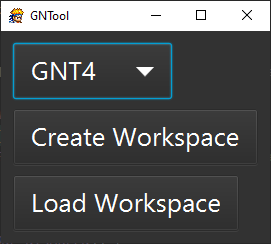
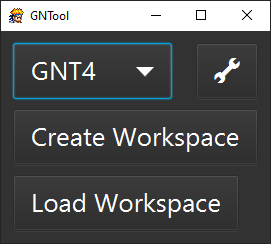
Update documentation

diff --git a/README.md b/README.md
@@ -2,7 +2,7 @@
 
 ![GNTool Logo](/docs/logo.png?raw=true "GNTool Logo")
 
-This program allows you to modify files contained inside .FPK files for Naruto GNT4. [FPK files](https://github.com/NicholasMoser/Naruto-GNT-Hacking/blob/master/gnt4/docs/file_formats/fpk.md) are archives that contain various game related files. Each entry is compressed with an Eighting specific PRS compression algorithm. This tool can both unpack and repack FPK files with any changes that you've made.
+This program contains tools that allow you to modify the Naruto GNT/Clash of Ninja games. Primarily, it allows you to modify files contained inside .FPK files for Naruto GNT4. [FPK files](https://github.com/NicholasMoser/Naruto-GNT-Hacking/blob/master/gnt4/docs/file_formats/fpk.md) are archives that contain various game related files. Each entry is compressed with an Eighting specific PRS compression algorithm. This tool can both unpack and repack FPK files with any changes that you've made. Also contained are other generic tools such as a generic ISO extractor and FPK repacker.
 
 ## Table of Contents
 
@@ -55,6 +55,22 @@ You can build ISOs by selecting *Build ISO* under the File menu at the top. It i
 * The compression algorithm used by GNTool does not match Eighting's, therefore newly compressed files may be larger than they otherwise would be.
 
 ### Features
+
+#### Tools
+
+In the main menu of GNTool, you can click on the wrench icon to open the list of generic tools. These are tools that can be used across a variety of games.
+
+#### FPK Repacker (GameCube)
+
+This allows you to repack an FPK file for any Eighting title on the GameCube.
+
+#### FPK Repacker (Wii)
+
+This allows you to repack an FPK file for any Eighting title on the Wii.
+
+#### ISO Extractor (GameCube)
+
+This allows you to extract the files from any GameCube ISO.
 
 #### Audio Fix
 
